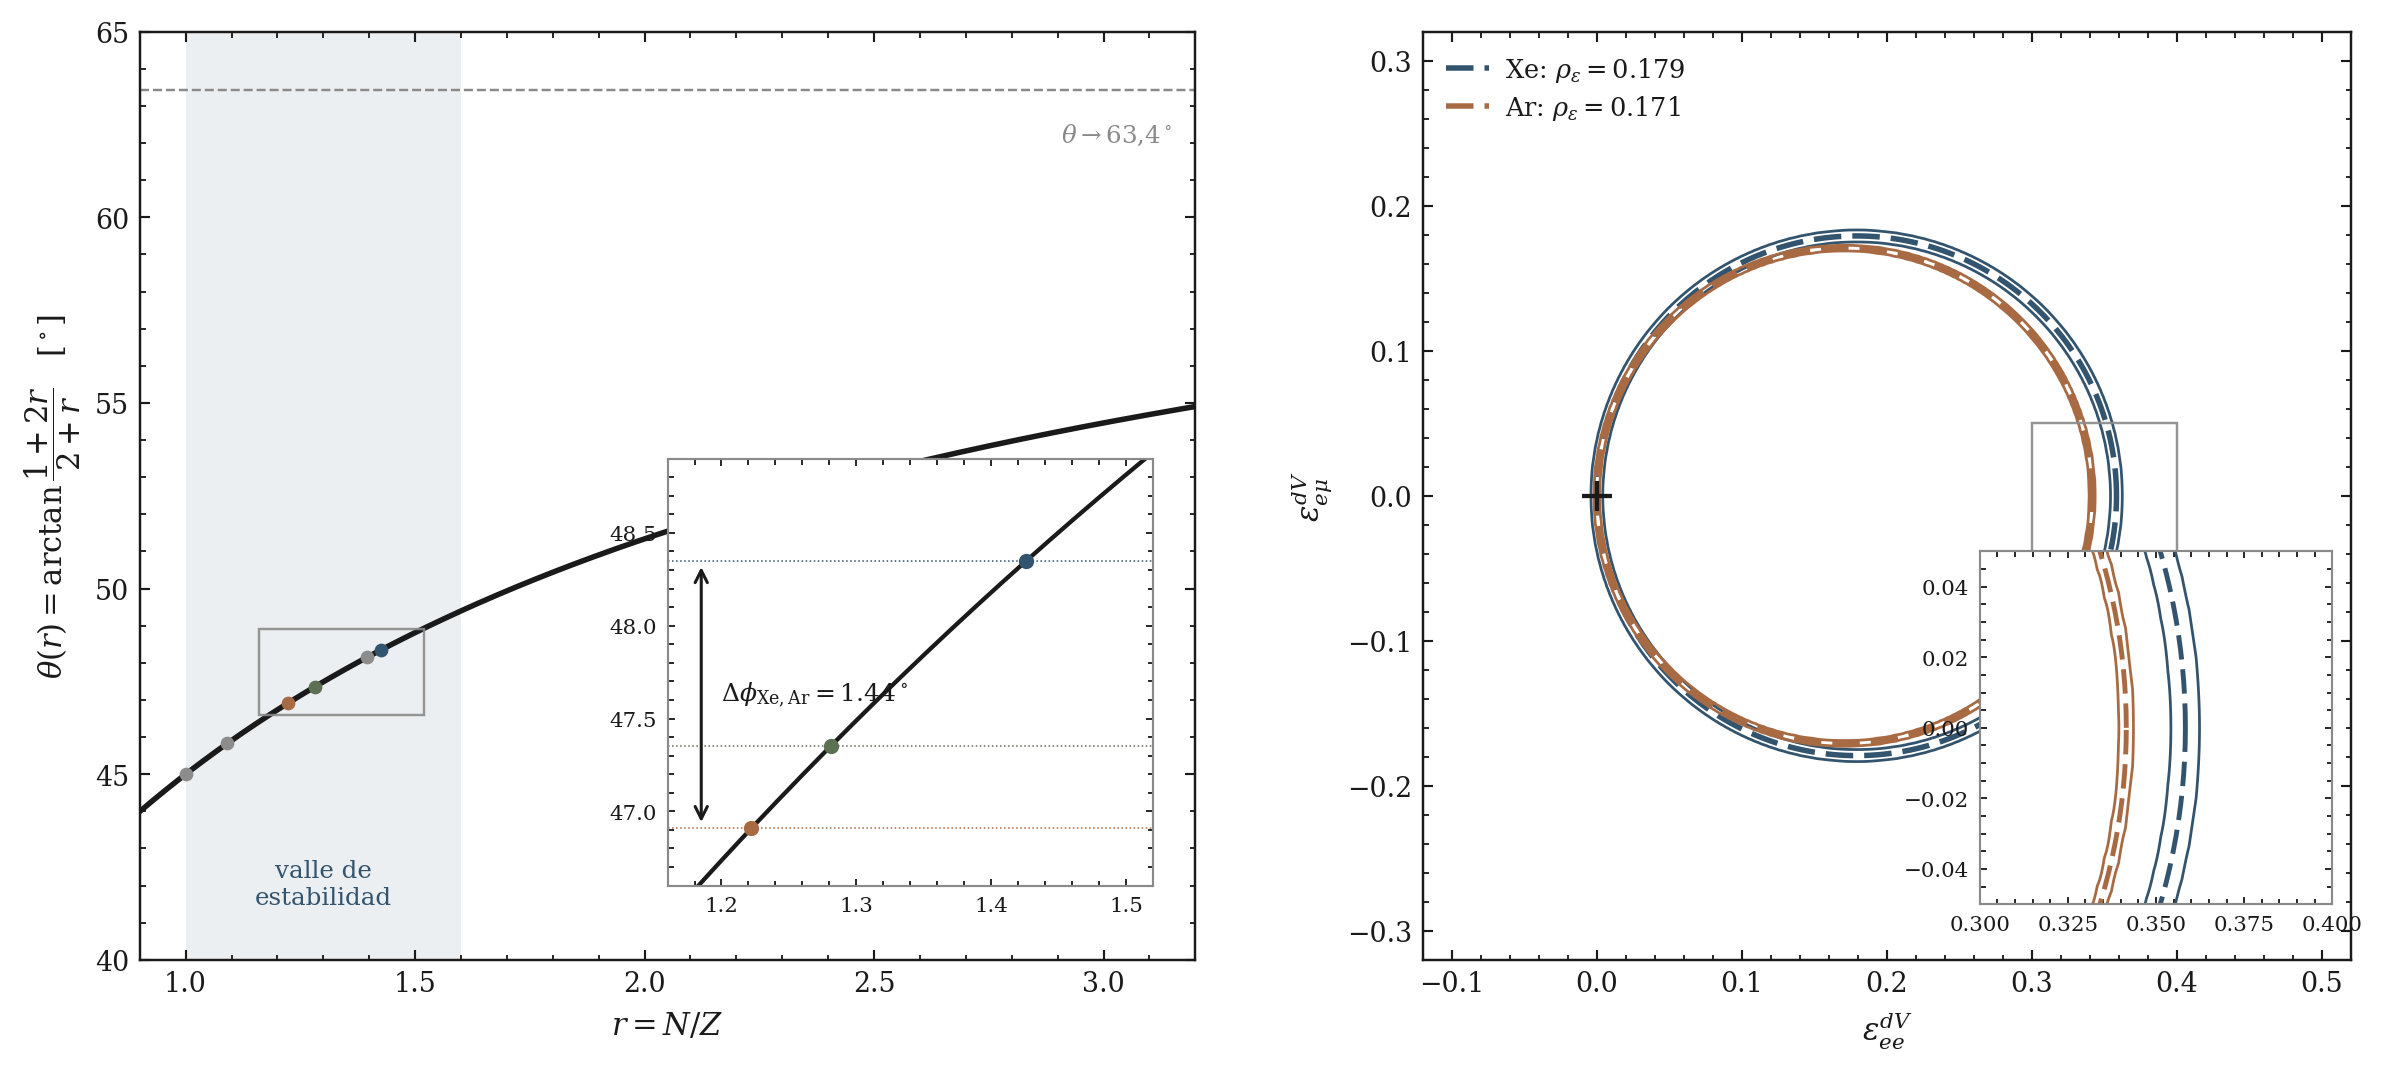
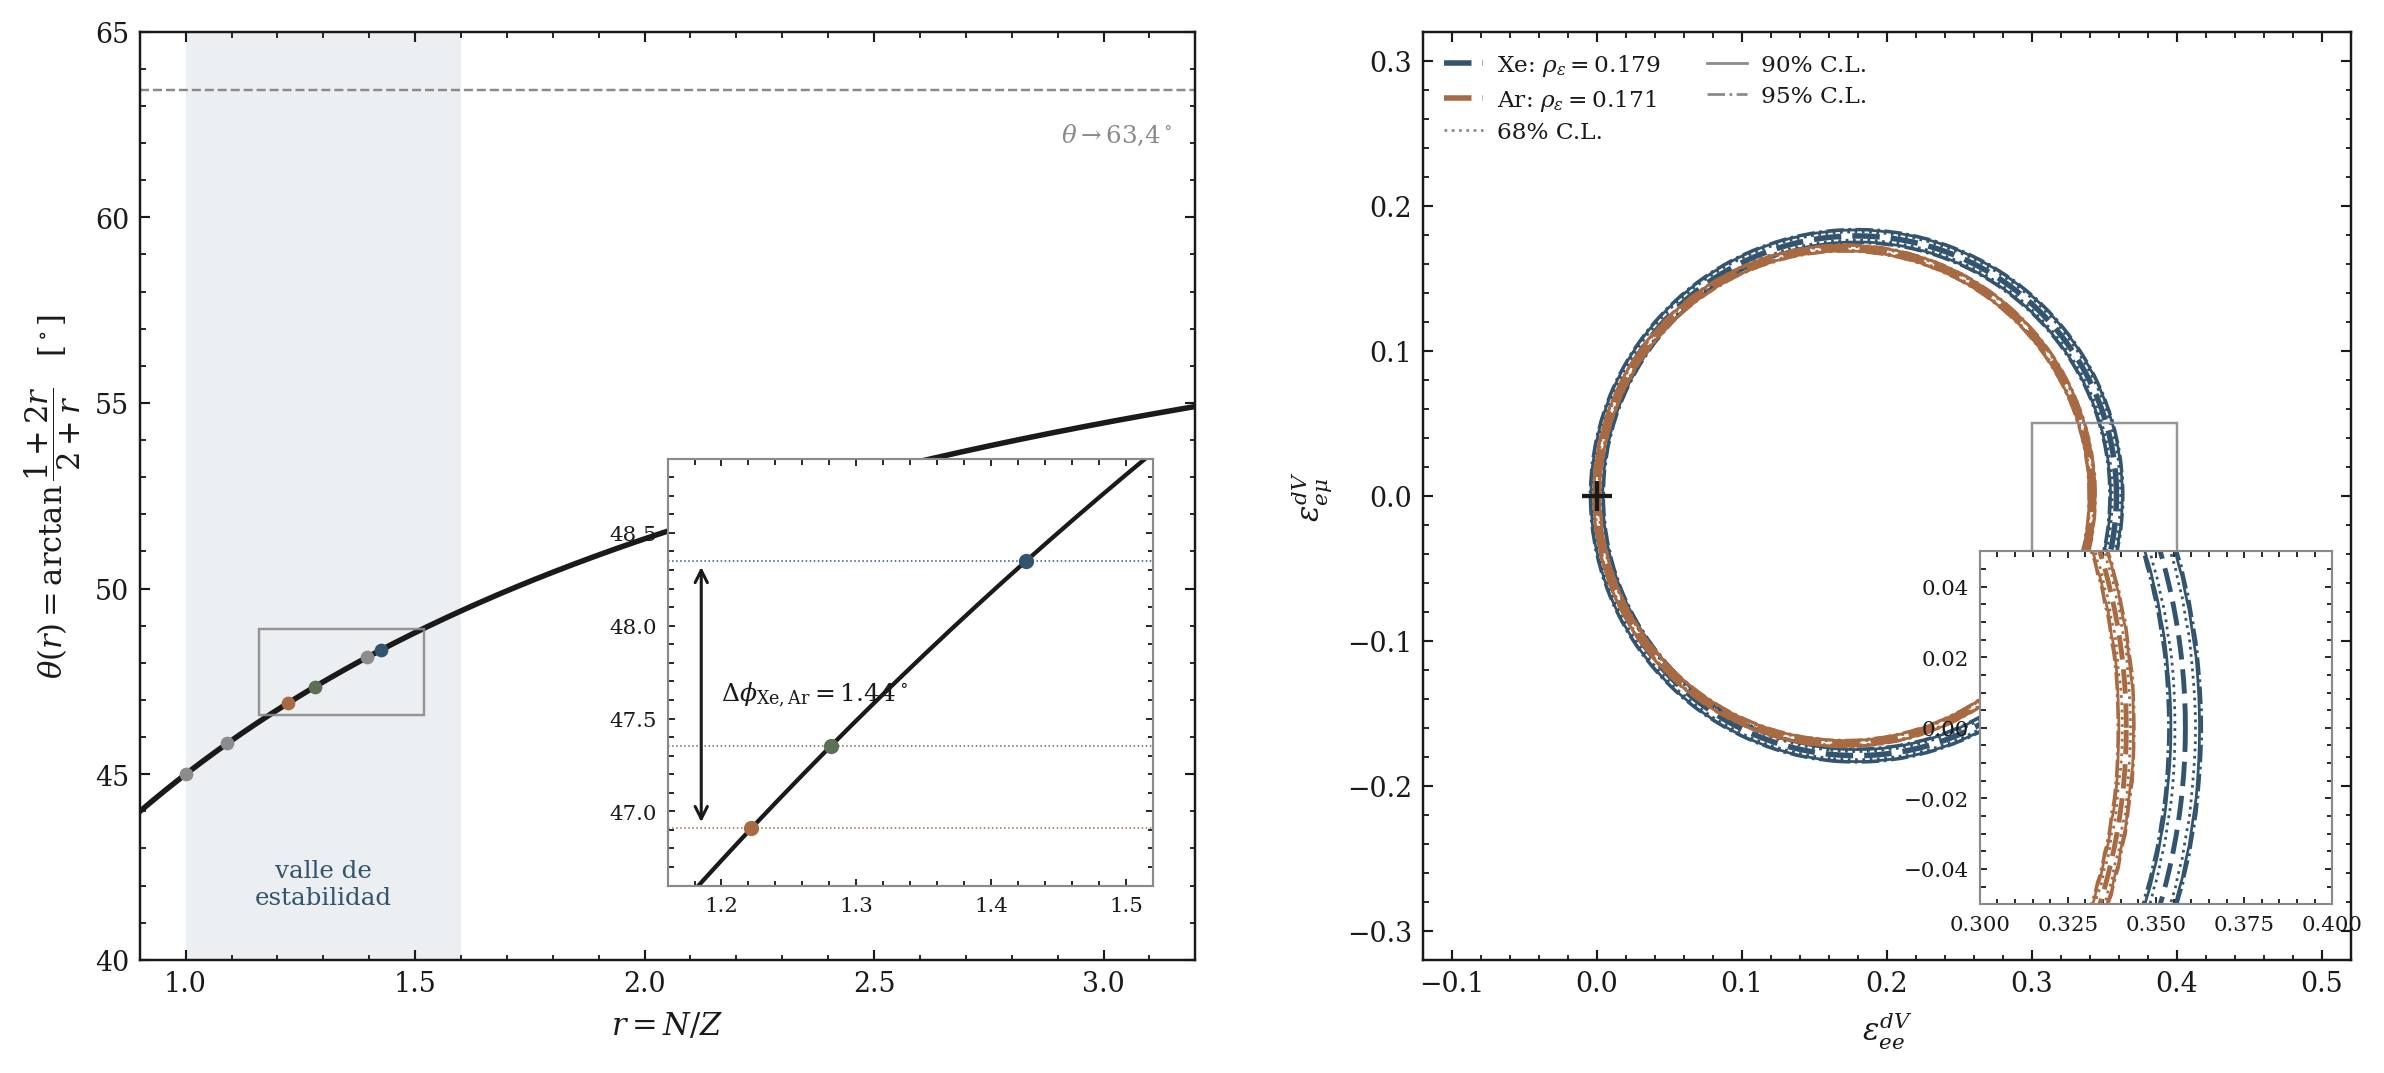
fig_blind_ring: añade contornos a 68% y 95% C.L. (antes solo 90%)
Claude-Session: https://claude.ai/code/session_01WVSW2HJzTJRfGVPcfUpxDT

diff --git a/python/blind_ring_XeAr.py b/python/blind_ring_XeAr.py
@@ -89,6 +89,9 @@ def contour_from_grid(path):
     x = np.unique(d[:, 0]); y = np.unique(d[:, 1])
     return x, y, d[:, 2].reshape(len(y), len(x))
 
+# Delta_chi2 critico (2 g.d.l.) para 68%, 90% y 95% C.L.
+CL_LEVELS = [(2.30, "68%", ":"), (4.605, "90%", "-"), (5.99, "95%", "-.")]
+
 ph = np.linspace(0, 2 * np.pi, 512)
 def dibuja_anillo(ax, name, lw_a=1.8):
     d = RING[name]
@@ -96,7 +99,9 @@ def dibuja_anillo(ax, name, lw_a=1.8):
             color=d["c"], lw=lw_a, ls=(0, (5, 2)))
     try:
         x, y, Zg = contour_from_grid(f"{BASE}/chi2_nsi_2D{name}_ideal.dat")
-        ax.contour(x, y, Zg, levels=[4.605], colors=[d["c"]], linewidths=0.9)
+        for dchi2, _, ls in CL_LEVELS:
+            ax.contour(x, y, Zg, levels=[dchi2], colors=[d["c"]],
+                       linewidths=0.9, linestyles=[ls])
     except Exception as e:
         print(f"  (sin grilla numerica para {name}: {e})")
 
@@ -104,13 +109,15 @@ for name in ("Xe", "Ar"):
     dibuja_anillo(aB, name)
     aB.plot([], [], color=RING[name]["c"], lw=1.8, ls=(0, (5, 2)),
             label=fr"{name}: $\rho_\varepsilon = {RING[name]['rho']:.3f}$")
+for _, lab, ls in CL_LEVELS:
+    aB.plot([], [], color=GRIS, lw=0.9, ls=ls, label=lab + " C.L.")
 aB.plot(0, 0, "+", ms=10, mew=1.4, color=NEGRO)
 aB.set_xlim(-0.12, 0.52)
 aB.set_ylim(-0.32, 0.32)
 aB.set_aspect("equal")
 aB.set_xlabel(r"$\varepsilon_{ee}^{dV}$")
 aB.set_ylabel(r"$\varepsilon_{e\mu}^{dV}$")
-aB.legend(loc="upper left")
+aB.legend(loc="upper left", ncol=2, fontsize=7.6)
 
 # --- inset: el borde del anillo, analítico (--) sobre el numérico ---
 axB = zoom(aB, [0.60, 0.06, 0.38, 0.38], (0.30, 0.40), (-0.05, 0.05))

diff --git a/doc/metodologia.tex b/doc/metodologia.tex
@@ -1575,8 +1575,10 @@ $\SI{3.35}{\degree}$). El \'area de intersecci\'on de dos bandas de tolerancia
 con normales separadas $\Delta\phi$ va como $1/\sin\Delta\phi$, as\'i que ese
 $\SI{1.44}{\degree}$ es un factor de solo $\approx40\times$: la
 complementariedad Xe--Ar es marginal. Derecha: circunferencias ciegas
-anal\'iticas $\qeff^{2}=\QW^{2}$ de Xe y Ar con el contorno num\'erico
-$\Delta\chi^{2}=4{,}605$ superpuesto.}
+anal\'iticas $\qeff^{2}=\QW^{2}$ de Xe y Ar con los contornos num\'ericos a
+68\,\%, 90\,\% y 95\,\% C.L. (2 g.d.l.; $\Delta\chi^{2}=2{,}30/4{,}605/5{,}99$)
+superpuestos --- el recuadro muestra las tres bandas anidadas alrededor del
+anillo anal\'itico.}
 \label{fig:blind_ring}
 \end{figure}
 
